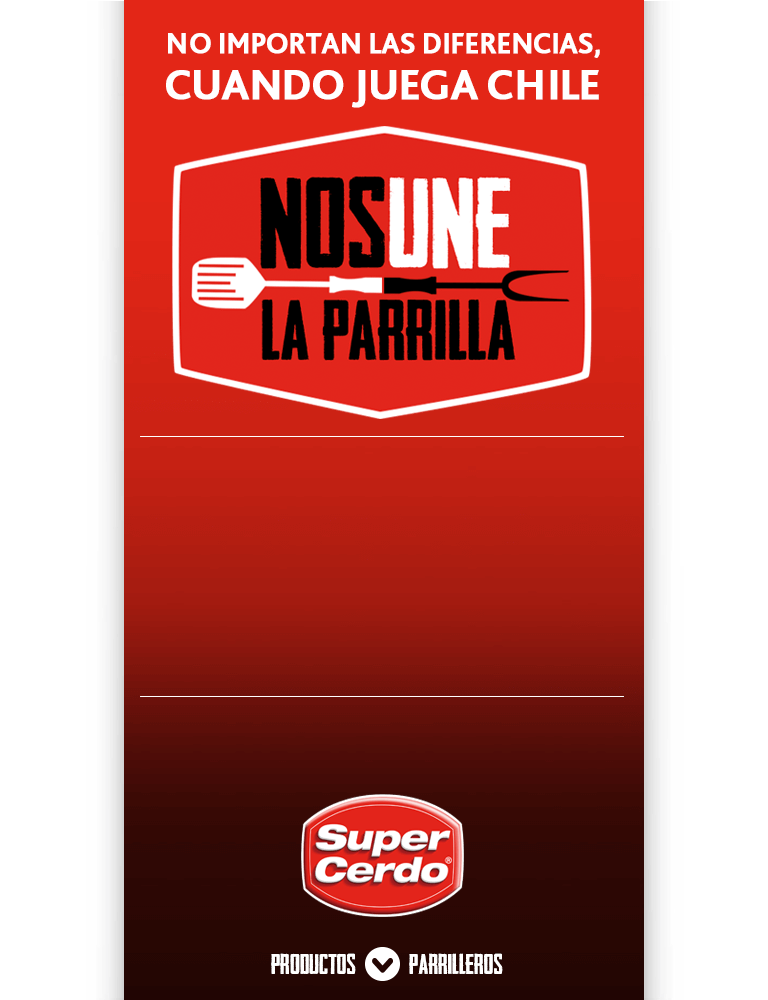
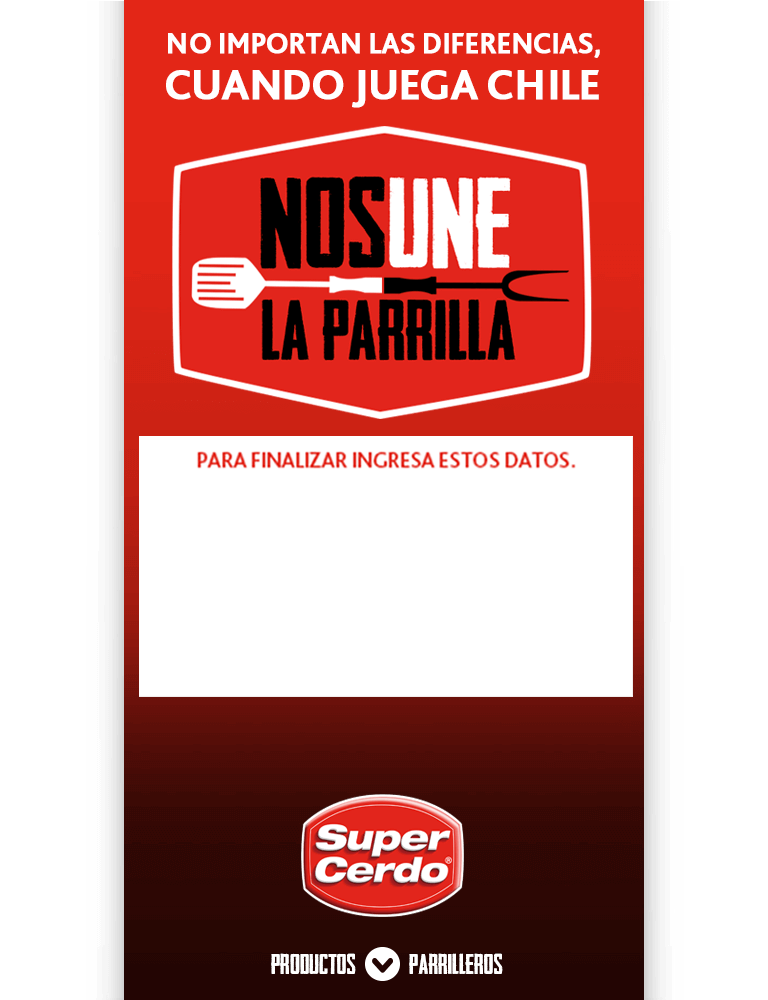
-WORKING- UNICORNIO DESESPERADO

Changed region(s): [[0.1562, 0.434, 0.8438, 0.713]]

diff --git a/public/css/style.css b/public/css/style.css
@@ -953,6 +953,12 @@ li.seventh-item .more-info{
         padding-top: 130%;
         background-size: cover !important;
     }
+    .banda.banda-p2.banda-p4 {
+        background: transparent url("../img/bandaP4.png") repeat scroll 0% 0% !important;
+        width: 100%;
+        padding-top: 130%;
+        background-size: cover !important;
+    }
 
     .first-medalla{
         position: absolute;
@@ -1061,6 +1067,14 @@ li.seventh-item .more-info{
         margin-left: 9%;
         margin-top: 8%;
     }
+    .user-name {
+        left: 3%;
+        top: 56%;
+        width: 345px;
+    }
+    #user-name-p {
+        font-size: 15px;
+    }
 }
 
 @media screen and (max-width: 640px) and (orientation: portrait){
@@ -1084,13 +1098,5 @@ li.seventh-item .more-info{
         cursor: pointer;
         margin-left: 25%;
         margin-top: 0px;
-    }
-    .user-name {
-        left: 3%;
-        top: 56%;
-        width: 345px;
-    }
-    #user-name-p {
-        font-size: 15px;
     }
 }

diff --git a/public/js/super_cerdo.js b/public/js/super_cerdo.js
@@ -182,6 +182,8 @@ jQuery(document).ready(function($) {
                     $('#show-email-permission').show();
                     $('#form-id-to-show').attr('class','hide')
                     $('.banda').css("background",'url("../img/barra_roja/4.png") no-repeat').css("background-size",'contain').css('-o-background-size','cover').addClass('magictime vanishIn');
+                    /*Para Mobile - Mostrar el formulario*/
+                    $('.banda').addClass('banda-p2');
                 }else{
                     if (data[0] == 'no'){
                         //$('#email-id-form').attr('style','border: 1px solid red;');
